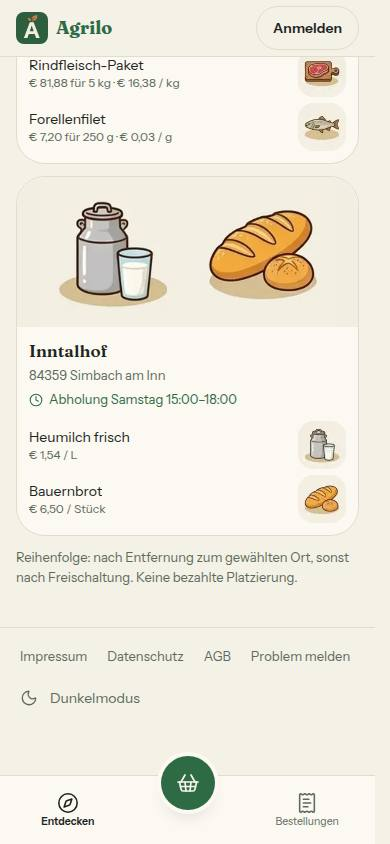
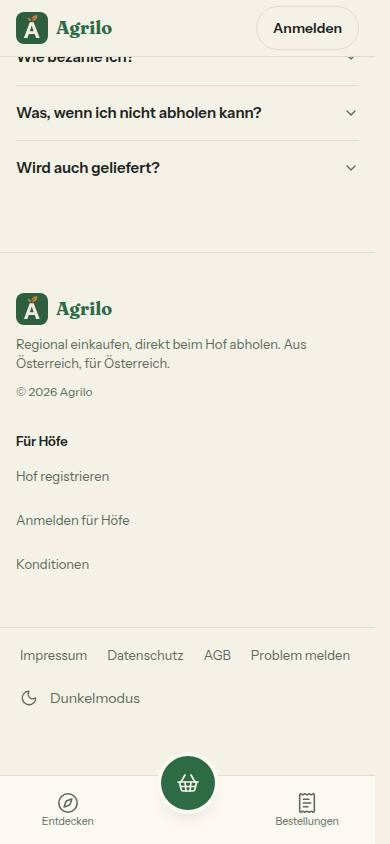
fix: Nr. 120 Runde 1 – Fuß der Startseite ohne doppelte Wege, echte Gegenprobe der Karten-Wache
- StartseiteFuss: Die Spalte mit der Marke, „Höfe entdecken" und „So
  funktioniert's" entfällt – beide Wege stehen am Computer im Seitenfuß
  direkt darunter (Register N22). Es bleiben Wortmarke, Satz, ©-Zeile und
  „Für Höfe". Test zuerst rot, mit Gegenprobe am Seitenfuß.
- karte-wache: Die Abgleiche für Tastatur und Pin-Vorschau stehen in einer
  Funktion; die Gegenprobe läuft auf fünf Abwandlungen des echten
  Quelltexts von hoefe-karte.tsx statt auf einem Literal.
- DESIGN_SYSTEM (Seitenfuß), Bericht 120 mit Abschnitt „Nachbesserung
  Runde 1", Bilder seitenfuss-390/1440-hell neu.

Claude-Session: https://claude.ai/code/session_016mcnK6M2any3pAayV5rccV

diff --git a/tests/karte-wache.test.ts b/tests/karte-wache.test.ts
@@ -23,7 +23,8 @@ import { KARTE_LAEDT } from '@/lib/hoefe-anzeige'
 const WURZEL = process.cwd()
 const quelle = (pfad: string) => readFileSync(join(WURZEL, pfad), 'utf8')
 /** Ohne Kommentare — die Dateien erklären, was sie NICHT tun. */
-const code = (pfad: string) => quelle(pfad).replace(/\/\*[\s\S]*?\*\//g, '').replace(/^\s*\/\/.*$/gm, '').replace(/\{\/\*[\s\S]*?\*\/\}/g, '')
+const ohneKommentare = (text: string) => text.replace(/\/\*[\s\S]*?\*\//g, '').replace(/^\s*\/\/.*$/gm, '').replace(/\{\/\*[\s\S]*?\*\/\}/g, '')
+const code = (pfad: string) => ohneKommentare(quelle(pfad))
 
 function alleDateien(ordner: string): string[] {
   return readdirSync(join(WURZEL, ordner)).flatMap((name) => {
@@ -142,27 +143,57 @@ describe('Platzhalter beim Nachladen', () => {
 
 // Nr. 120 (Register N22): Pins per Tab, Enter wie Klick, die Vorschau am Computer.
 // Ohne DOM lässt sich das Verhalten nicht ausführen — die Wache hält die Verdrahtung fest.
-describe('Pins per Tastatur und die Vorschau am Computer', () => {
-  it('jeder Pin und Gruppen-Pin ist per Tab erreichbar, Enter und Leertaste wirken wie ein Klick', () => {
-    const karte = code('src/components/hoefe/hoefe-karte.tsx')
-    expect(karte.match(/keyboard: true/g)).toHaveLength(2)
-    // Nur der eigene Hof der Umfeld-Karte bleibt ohne Tab — er ist nicht antippbar.
-    expect(karte.match(/keyboard: false/g)).toHaveLength(1)
-    expect(karte.match(/e\.key !== 'Enter' && e\.key !== ' '/g)).toHaveLength(2)
-    // Gegenprobe: die alte Zeile fiele auf.
-    expect('L.marker([marke.lat, marke.lon], { keyboard: false })'.match(/keyboard: true/g)).toBeNull()
-  })
+// Die Abgleiche stehen in EINER Funktion, damit die Gegenprobe dieselben Abgleiche
+// gegen Abwandlungen des echten Quelltexts laufen lässt, nicht gegen ein Literal (Runde 1).
+const KARTE = 'src/components/hoefe/hoefe-karte.tsx'
 
-  it('die Vorschau öffnet bei Darüberfahren und Fokus und schließt mit Escape oder 300 ms nach dem Verlassen', () => {
-    const karte = code('src/components/hoefe/hoefe-karte.tsx')
-    for (const ereignis of ['mouseenter', 'mouseleave', 'focus', 'blur']) expect(karte, ereignis).toContain(`addEventListener('${ereignis}'`)
-    expect(karte).toMatch(/const VORSCHAU_NACHLAUF_MS = 300\b/)
-    expect(karte).toMatch(/e\.key === 'Escape'/)
-    expect(karte).toContain("setAttribute('aria-describedby', vorschauId)")
+/** Was an der Tastatur- und Vorschau-Verdrahtung fehlt; leer = alles da. Kommentare zählen nicht. */
+function pruefeKarteTastatur(text: string): string[] {
+  const karte = ohneKommentare(text)
+  const anzahl = (muster: RegExp) => karte.match(muster)?.length ?? 0
+  const fehlt: string[] = []
+  if (anzahl(/keyboard: true/g) !== 2) fehlt.push('Pin und Gruppen-Pin mit keyboard: true')
+  // Nur der eigene Hof der Umfeld-Karte bleibt ohne Tab — er ist nicht antippbar.
+  if (anzahl(/keyboard: false/g) !== 1) fehlt.push('genau ein Pin mit keyboard: false')
+  if (anzahl(/e\.key !== 'Enter' && e\.key !== ' '/g) !== 2) fehlt.push('Enter und Leertaste an Pin und Gruppen-Pin')
+  for (const ereignis of ['mouseenter', 'mouseleave', 'focus', 'blur']) {
+    if (!karte.includes(`addEventListener('${ereignis}'`)) fehlt.push(`addEventListener('${ereignis}')`)
+  }
+  if (!/const VORSCHAU_NACHLAUF_MS = 300\b/.test(karte)) fehlt.push('Nachlauf 300 ms')
+  if (!/if \(e\.key === 'Escape'\) vorschauZu\(\)/.test(karte)) fehlt.push('Escape schließt die Vorschau')
+  if (!karte.includes("setAttribute('aria-describedby', vorschauId)")) fehlt.push('aria-describedby am Pin')
+  if (!/if \(fokusPin === pin\.slug\) element\.focus\(\{ preventScroll: true \}\)/.test(karte)) fehlt.push('Fokus zurück an den Pin')
+  return fehlt
+}
+
+/** Entfernt genau die eine Zeile, die `teil` enthält — sonst wäre die Abwandlung nicht eindeutig. */
+function ohneZeile(text: string, teil: string): string {
+  const zeilen = text.split('\n')
+  expect(zeilen.filter((z) => z.includes(teil)), teil).toHaveLength(1)
+  return zeilen.filter((z) => !z.includes(teil)).join('\n')
+}
+
+describe('Pins per Tastatur und die Vorschau am Computer', () => {
+  const echt = quelle(KARTE)
+
+  it('Pins per Tab, Enter und Leertaste wie ein Klick, Vorschau bei Zeiger und Fokus, Escape oder 300 ms', () => {
+    expect(pruefeKarteTastatur(echt)).toEqual([])
     expect(code('src/components/hoefe/hof-kurzkarte.tsx')).toContain('role="tooltip"')
   })
 
-  it('zeichnet die Karte die Pins neu, bekommt der Pin mit dem Fokus ihn zurück', () => {
-    expect(code('src/components/hoefe/hoefe-karte.tsx')).toMatch(/if \(fokusPin === pin\.slug\) element\.focus\(\{ preventScroll: true \}\)/)
-  })
+  // Gegenprobe am echten Quelltext: Jede Abwandlung muss mindestens einen Fehler liefern.
+  const abwandlungen: Record<string, (text: string) => string> = {
+    'keyboard: true wird keyboard: false': (t) => t.replace('keyboard: true', 'keyboard: false'),
+    'Escape-Zweig entfernt': (t) => ohneZeile(t, "if (e.key === 'Escape') vorschauZu()"),
+    'Nachlauf 500 statt 300 ms': (t) => t.replace('VORSCHAU_NACHLAUF_MS = 300', 'VORSCHAU_NACHLAUF_MS = 500'),
+    "addEventListener('focus' entfernt": (t) => ohneZeile(t, "addEventListener('focus'"),
+    'Fokus zurück an den Pin entfernt': (t) => ohneZeile(t, 'element.focus({ preventScroll: true })'),
+  }
+  for (const [name, abwandeln] of Object.entries(abwandlungen)) {
+    it(`Gegenprobe: ${name} fällt auf`, () => {
+      const abgewandelt = abwandeln(echt)
+      expect(abgewandelt).not.toBe(echt)
+      expect(pruefeKarteTastatur(abgewandelt).length).toBeGreaterThan(0)
+    })
+  }
 })

diff --git a/tests/startseite.test.ts b/tests/startseite.test.ts
@@ -629,10 +629,22 @@ describe('Abschnitte', () => {
 
   it('der Fuß: Weg der Höfe zur Anmeldung, Registrieren, Konditionen', () => {
     const text = html(createElement(StartseiteFuss, { jahr: 2026 }))
-    for (const href of ['/login', '/register', '/konditionen', '/#so-funktionierts']) {
+    for (const href of ['/login', '/register', '/konditionen']) {
       expect(text).toContain(`href="${href}"`)
     }
+    for (const wort of ['Hof registrieren', 'Anmelden für Höfe', 'Konditionen']) expect(text).toContain(`>${wort}</a>`)
     expect(text).toContain(`© 2026 ${MARKE}`)
+  })
+
+  // Nr. 120 Runde 1: „Höfe entdecken" und „So funktioniert's" stehen am Computer im
+  // Seitenfuß direkt darunter (SEITENFUSS.wege) — die Spalte mit der Marke fällt weg.
+  it('kein doppelter Weg: der Fuß der Startseite verlinkt weder /hoefe noch #so-funktionierts', () => {
+    const text = html(createElement(StartseiteFuss, { jahr: 2026 }))
+    for (const href of ['/hoefe', '/#so-funktionierts']) expect(text, href).not.toContain(`href="${href}"`)
+    expect(text).not.toContain(`aria-label="${MARKE}"`)
+    // Gegenprobe: Der Seitenfuß darunter führt beide Wege.
+    const fuss = html(createElement(KundeFuss))
+    for (const href of ['/hoefe', '/#so-funktionierts']) expect(fuss, href).toContain(`href="${href}"`)
   })
 
   // Nr. 120 (Register N22): Impressum, Datenschutz, AGB und „Problem melden" stehen im Seitenfuß der KundeShell direkt darunter.

diff --git a/src/components/startseite/startseite-abschnitte.tsx b/src/components/startseite/startseite-abschnitte.tsx
@@ -356,16 +356,11 @@ export function Fragen({ jetzt }: { jetzt: Date }): React.JSX.Element {
 }
 
 // Impressum, Datenschutz, AGB und „Problem melden" stehen seit Nr. 120 im
-// Seitenfuß der KundeShell (KundeFuss, Register N22) direkt darunter — hier
-// nicht noch einmal, sonst stünde auf der Startseite alles doppelt.
+// Seitenfuß der KundeShell (KundeFuss, Register N22) direkt darunter, dazu am
+// Computer „Höfe entdecken" und „So funktioniert's" (SEITENFUSS.wege; am Handy
+// in der Unterleiste bzw. auf der Startseite selbst) — hier nicht noch einmal,
+// sonst stünde alles doppelt. Es bleibt der Weg der Höfe.
 const FUSS_SPALTEN = [
-  {
-    titel: MARKE,
-    links: [
-      { href: hoefeAdresse(), text: 'Höfe entdecken' },
-      { href: '/#so-funktionierts', text: 'So funktioniert’s' },
-    ],
-  },
   {
     titel: 'Für Höfe',
     links: [
@@ -390,7 +385,7 @@ export function StartseiteFuss({ jahr }: { jahr: number }): React.JSX.Element {
           </p>
           <p className="text-xs text-muted-foreground">© {jahr} {MARKE}</p>
         </div>
-        <div className="grid grid-cols-2 gap-6 md:flex md:gap-[70px]">
+        <div className="flex gap-6 md:gap-[70px]">
           {FUSS_SPALTEN.map((spalte) => (
             <nav key={spalte.titel} aria-label={spalte.titel} className="flex flex-col gap-1">
               <p className="text-[13px] font-semibold">{spalte.titel}</p>

diff --git a/docs/nachtlauf/berichte/120.md b/docs/nachtlauf/berichte/120.md
@@ -24,7 +24,7 @@
 
 **Angepasste .md:** DESIGN_SYSTEM (Entdecken: Hofkarte A, Abholzeile, Filter, Zahlzeile, Leer; Karte: Namen, Tastatur, Pin-Vorschau, Hinweis, Karussell; Shells: Seitenfuß; Illustrationen: Bildfläche), ARCHITECTURE (Uhr im Browser, Abholung-Filter nach N19, eine Regel, `'v2'`), BAUSTEINE (erzeugt), DEVELOPMENT.md.
 
-**Nacharbeit:** (1) Startseite am Computer: `StartseiteFuss` (Wortmarke, Spalten) und Seitenfuß stehen untereinander – Rechtliches nur einmal, aber zwei Wortmarken und „Höfe entdecken"/„So funktioniert's" doppelt (Bild unten); Vorschlag: `StartseiteFuss` geht im Seitenfuß auf. (2) Produktsuche: Status von `HoefeSuche` und Zahlzeile sind beide Live-Regionen, eine reicht. (3) Volle Fenster in der Abholzeile, sobald die Übersicht `maxOrders` kennt.
+**Nacharbeit:** (1) Startseite am Computer: doppelte Wege erledigt in Runde 1, die zweite Wortmarke ist offen (siehe dort). (2) Produktsuche: Status von `HoefeSuche` und Zahlzeile sind beide Live-Regionen, eine reicht. (3) Volle Fenster in der Abholzeile, sobald die Übersicht `maxOrders` kennt.
 
 **Regelvorschlag:** Ursache: Eine Zeitangabe auf einer statischen Seite (5 min Cache, N19) ist mit der Server-Uhr bis zum nächsten Rendern falsch. Gegenmaßnahme: Wache – in `src/components/hoefe/**` kein `new Date()`/`Date.now()` außer in `use-uhr.ts`; Zeitlogik nur über `useUhr`. Ort: `tests/karte-wache.test.ts` bzw. eine neue `uhr-wache` (Prüfung vor Textregel).
 
@@ -32,6 +32,15 @@
 
 **Prüfung:** typecheck grün, lint 0 Fehler/5 Warnungen (Grundstand), test 460 Dateien/8936 Tests grün (`--maxWorkers=2`). Gegenprobe: 7 geänderte Fälle gegen den Basis-Stand rot (alte Regel von `naechsteAbholung`, alter Fuß, alter Schlüssel), die neuen Dateien ohne die Bausteine rot. test:integration (Typ erweitert, Abfrage gleich): testhof.int + oeffentlich-lesen.int 2 Dateien/11 Tests grün unter der Sperre. Build: `├ ○ /hoefe   5m   1y`, `/datenschutz` ○. Axe 0 Verstöße auf /hoefe bei 390 und 1440, hell und dunkel. Tastatur (1440, im Browser): alle 13 Pins mit `tabindex=0` und `role=button`, Tab geht von Pin zu Pin, Fokus öffnet die Vorschau (`aria-describedby`), Escape schließt sie und der Fokus bleibt am Pin, Enter wählt wie ein Klick (Pin größer, Liste rollt zum Hof). Tippflächen: Chips „Abholung" 44 px, Seitenfuß-Links 32 px + unsichtbarer Rand 2 × 6 px = 44 px. Testdaten nur gelesen; den Abend für den Leerzustand stellt ein Init-Skript nur im Browser (19:30).
 
-**Mockup-Abweichungen** (über die freigegebenen hinaus, je mit Bild): (a) Reihe „Abholung" am Handy wischt waagrecht, „Wochenende" angeschnitten – 44-px-Chips mit Uhr passen bei 390 nicht in eine Zeile, Muster wie die Kategorie-Reihe. (b) Kartenmodus am Handy: Die Werkzeugzeile bleibt Suche · Filter · Liste (Nr. 52); eine gewählte Abholung steht als entfernbare Marke in der zweiten Zeile statt als „Heute" in der Leiste. (c) Seitenfuß am Handy: zweite Zeile ist der bestehende Umschalter „Dunkelmodus" statt „Darstellung: Dunkel". (d) Seitenfuß am Computer ohne „Darstellung" (der Umschalter steht schon im Kopf); auf der Startseite bleibt `StartseiteFuss` darüber (siehe Nacharbeit).
+**Mockup-Abweichungen** (über die freigegebenen hinaus, je mit Bild): (a) Reihe „Abholung" am Handy wischt waagrecht, „Wochenende" angeschnitten – 44-px-Chips mit Uhr passen bei 390 nicht in eine Zeile, Muster wie die Kategorie-Reihe. (b) Kartenmodus am Handy: Die Werkzeugzeile bleibt Suche · Filter · Liste (Nr. 52); eine gewählte Abholung steht als entfernbare Marke in der zweiten Zeile statt als „Heute" in der Leiste. (c) Seitenfuß am Handy: zweite Zeile ist der bestehende Umschalter „Dunkelmodus" statt „Darstellung: Dunkel". (d) Seitenfuß am Computer ohne „Darstellung" (der Umschalter steht schon im Kopf); auf der Startseite bleibt `StartseiteFuss` (ohne Spalte Marke, Runde 1) darüber.
 
-![Liste 390 hell, Abweichung a](bilder/120/hoefe-liste-390-hell.jpg) ![Liste 390 dunkel](bilder/120/hoefe-liste-390-dunkel.jpg) ![Liste mit Heute 390](bilder/120/hoefe-heute-390-hell.jpg) ![Filter-Blatt 390](bilder/120/hoefe-filterblatt-390-hell.jpg) ![Karte mit Namen 390, Abweichung b](bilder/120/hoefe-karte-namen-390-hell.jpg) ![Leer: Heute holt hier kein Hof mehr ab 390](bilder/120/hoefe-leer-heute-390-hell.jpg) ![Hofkarte ohne Foto mit Bildfläche 390](bilder/120/hoefe-ohne-foto-390-hell.jpg) ![Splitscreen mit Pin-Vorschau 1440](bilder/120/hoefe-split-vorschau-1440-hell.jpg) ![Seitenfuß 390, Abweichung c](bilder/120/seitenfuss-390-hell.jpg) ![Seitenfuß Startseite 1440, Abweichung d](bilder/120/seitenfuss-1440-hell.jpg)
+![Liste 390 hell, Abweichung a](bilder/120/hoefe-liste-390-hell.jpg) ![Liste 390 dunkel](bilder/120/hoefe-liste-390-dunkel.jpg) ![Liste mit Heute 390](bilder/120/hoefe-heute-390-hell.jpg) ![Filter-Blatt 390](bilder/120/hoefe-filterblatt-390-hell.jpg) ![Karte mit Namen 390, Abweichung b](bilder/120/hoefe-karte-namen-390-hell.jpg) ![Leer: Heute holt hier kein Hof mehr ab 390](bilder/120/hoefe-leer-heute-390-hell.jpg) ![Hofkarte ohne Foto mit Bildfläche 390](bilder/120/hoefe-ohne-foto-390-hell.jpg) ![Splitscreen mit Pin-Vorschau 1440](bilder/120/hoefe-split-vorschau-1440-hell.jpg) ![Seitenfuß Startseite 390, Abweichung c, Runde 1](bilder/120/seitenfuss-390-hell.jpg) ![Seitenfuß Startseite 1440, Abweichung d, Runde 1](bilder/120/seitenfuss-1440-hell.jpg)
+
+## Nachbesserung Runde 1 (auf 3ba85d3, Punkte des Dirigenten)
+- `startseite-abschnitte.tsx` (nur `StartseiteFuss`/`FUSS_SPALTEN`): Spalte `MARKE` mit „Höfe entdecken" und „So funktioniert's" entfällt (stehen am Computer in `SEITENFUSS.wege` direkt darunter, am Handy in der Unterleiste bzw. auf der Startseite); es bleiben Wortmarke, Satz, ©-Zeile und „Für Höfe"; Raster `flex` statt `grid-cols-2`, Kommentar nachgezogen. Test zuerst rot (`startseite.test.ts`: kein `/hoefe`, kein `/#so-funktionierts`, Gegenprobe am Seitenfuß; Hof registrieren, Anmelden für Höfe, Konditionen bleiben). `DESIGN_SYSTEM` (Seitenfuß-Satz) nachgezogen. Bilder `seitenfuss-390/1440-hell` neu (Startseite; Links „Für Höfe" 44 px, Axe auf / bei 390 und 1440: 0 Verstöße).
+- `karte-wache.test.ts`: Abgleiche in `pruefeKarteTastatur(text)`; leer auf dem echten `hoefe-karte.tsx`, je ≥ 1 Fehler auf 5 Abwandlungen genau dieses Inhalts (`keyboard: true`→`false`, Escape-Zweig weg, 300→500 ms, `addEventListener('focus'` weg, `element.focus({ preventScroll: true })` weg); Abwandlung muss den Text ändern. Gegenprobe der Gegenprobe: Mit stillgelegter Funktion werden alle 5 rot. Kein Produktcode geändert.
+- **Annahme:** `StartseiteFuss` steht auch auf Hofseite, Produktseite und /fuer-hoefe – die Spalte entfällt dort mit (dieselbe Komponente, Seitenfuß darunter).
+- **Bekannte Grenze:** `illustrationPfad(produkt.category)` in `hoefe-produktzeilen.tsx` ohne Unterkategorie – `VorschauProdukt` kennt sie nicht, `farm.ts` bleibt bei „nur `abholfenster`"; kein Schema, keine Abfrage.
+- **Offen für die Projektleitung:** Am Computer stehen auf der Startseite (und den anderen Seiten mit `StartseiteFuss`) zwei Wortmarken übereinander – im Fuß der Startseite und im Seitenfuß (Bild `seitenfuss-1440-hell`). Nicht geändert.
+- Prüfung Runde 1: typecheck grün, lint 0 Fehler/5 Warnungen (Grundstand), test 462 Dateien/8944 Tests grün (`--maxWorkers=2`); keine Abfrage geändert, daher kein test:integration.
+- Eigene Dateien der Runde (`git diff --name-only 3ba85d3..HEAD`): docs/ai/DESIGN_SYSTEM.md, docs/nachtlauf/berichte/120.md, docs/nachtlauf/berichte/bilder/120/seitenfuss-{390,1440}-hell.jpg, src/components/startseite/startseite-abschnitte.tsx, tests/{karte-wache,startseite}.test.ts.

diff --git a/docs/ai/DESIGN_SYSTEM.md b/docs/ai/DESIGN_SYSTEM.md
@@ -259,7 +259,7 @@ Umgesetzt in `src/components/shells/` (KundeShell, KundeFokusShell, HofShell, Ad
 - **Neu-Menü (Web Dropdown, Handy Blatt):** „Was legst du an?" mit Lebensmittel · Futtermittel · Brennmaterial, darunter Beitrag und Verkauf eintragen. Die Wahl bestimmt das Formular.
 - **Admin:** eigene Kopfzeile mit Reitern Höfe · Postfach · Startseite · Finanzen · Betrieb · Einstellungen (Höfe und Postfach mit Zählern; Register N15, seit Nr. 94; die Seite „Einstellungen" liefert Nr. 93, die „Startseite" seit Nr. 96 Startseite gestalten; am Handy eine scrollbare Zeile, der gewählte Reiter scrollt in die Mitte) und „← Zu meinem Hof" (unter 1024 px „← Mein Hof") — seit Nr. 41 nur, wenn das Konto einen Hof hat (`kontoHatHof`); rechts die Initialen-Plakette, auch am Handy, mit Hof ein Link auf „Konto und Sicherheit" (`/settings/account`, 44 px Fläche; der zugängliche Name beginnt mit den sichtbaren Initialen, WCAG 2.5.3), ohne Hof ohne Link. Keine Hof-Seitenleiste im Admin.
 - **Fokus-Seiten ohne Unterleiste:** Produktdetail, Checkout, Zahlung, Bestätigung, Bar-Bestätigung. Dort gibt es genau eine feste Leiste unten (Aktion), nie zwei übereinander. Die Bar-Bestätigung steht seit Nr. 54 in der `KundeFokusShell` (Titel „Bestätigen" wie im Mockup mobil-k3-bar-bestaetigen; Zurück zum Hof, ohne gültigen Token zu den Höfen; die Überschriften der Seite sind h2, die h1 setzt die Shell). Alle übrigen Kundenseiten tragen die Unterleiste — auch Bestellseite, Rechtsseiten, „Problem melden" und die 404.
-- **Seitenfuß** (seit Nr. 120, Register N22; Wortliste: „Seitenfuß", nie „Footer"): `KundeFuss` (`src/components/shells/kunde-fuss.tsx`) steht nach dem `<main>` jeder Seite der KundeShell (auch ohne Unterleiste) — Impressum · Datenschutz · AGB · Problem melden (`SEITENFUSS.rechtlich` in `src/lib/kunden-navigation.ts`), am Computer links Marke und Höfe entdecken · Für Höfe · So funktioniert’s (`SEITENFUSS.wege`), am Handy darunter Hell/Dunkel (`ThemeUmschalterZeile`) über der Unterleiste (der Fuß hält `pb-28` frei). Links 32 px hoch, Trefferfläche 44 px über `::before`. Nicht in der KundeFokusShell (Kasse, Bestätigen: dort der AGB-Satz unter dem Kaufknopf). `/datenschutz` (noch KundenKopf) trägt denselben Fuß. Der Fuß der Startseite (`StartseiteFuss`) führt die rechtlichen Links und „Problem melden" nicht mehr.
+- **Seitenfuß** (seit Nr. 120, Register N22; Wortliste: „Seitenfuß", nie „Footer"): `KundeFuss` (`src/components/shells/kunde-fuss.tsx`) steht nach dem `<main>` jeder Seite der KundeShell (auch ohne Unterleiste) — Impressum · Datenschutz · AGB · Problem melden (`SEITENFUSS.rechtlich` in `src/lib/kunden-navigation.ts`), am Computer links Marke und Höfe entdecken · Für Höfe · So funktioniert’s (`SEITENFUSS.wege`), am Handy darunter Hell/Dunkel (`ThemeUmschalterZeile`) über der Unterleiste (der Fuß hält `pb-28` frei). Links 32 px hoch, Trefferfläche 44 px über `::before`. Nicht in der KundeFokusShell (Kasse, Bestätigen: dort der AGB-Satz unter dem Kaufknopf). `/datenschutz` (noch KundenKopf) trägt denselben Fuß. Der Fuß der Startseite (`StartseiteFuss`, auch auf Hofseite, Produktseite und /fuer-hoefe) führt die rechtlichen Links, „Problem melden" und die Spalte mit Marke, „Höfe entdecken" und „So funktioniert’s" nicht mehr — nur Wortmarke, Satz, ©-Zeile und die Spalte „Für Höfe".
 - **Feste Leisten unten tragen `data-unten-fest`** (Unterleiste `BottomNav`, Kaufknopf der Kasse, „In den Korb" der Produktseite, Korb-Leiste der Hofseite, Aktionsleiste der Fokus-Shell, schwebende Momente; seit Nr. 46). Der Cookie-Hinweis misst sie samt allem, was aus ihnen herausragt (erhobener Mittelknopf, `leistenMass`), und steht darüber, nie darauf (`cookieHinweisUnten`, `src/lib/cookie-hinweis.ts`); solange er steht, hält er am Seitenende seine Höhe frei. Am Handy ist er eine flache Zeile (Text neben „Verstanden", 44 px), ab 640 px die Karte unten rechts. Wer eine neue feste Leiste unten baut, setzt das Merkmal — `tests/cookie-hinweis.test.ts` findet sie im Quelltext. Eine Fokus-Seite mit Kopfzeile (Produktdetail, seit Nr. 13 die Bestätigung) nimmt `KundeShell`/`KundeShellMitSitzung` mit `unterleiste={false}` — der Warenkorb steht dann auch am Handy im Kopf; `KundeFokusShell` ist die Form ohne Navigation (seit Nr. 12 die Kasse).
 
 ### Links und Filter
